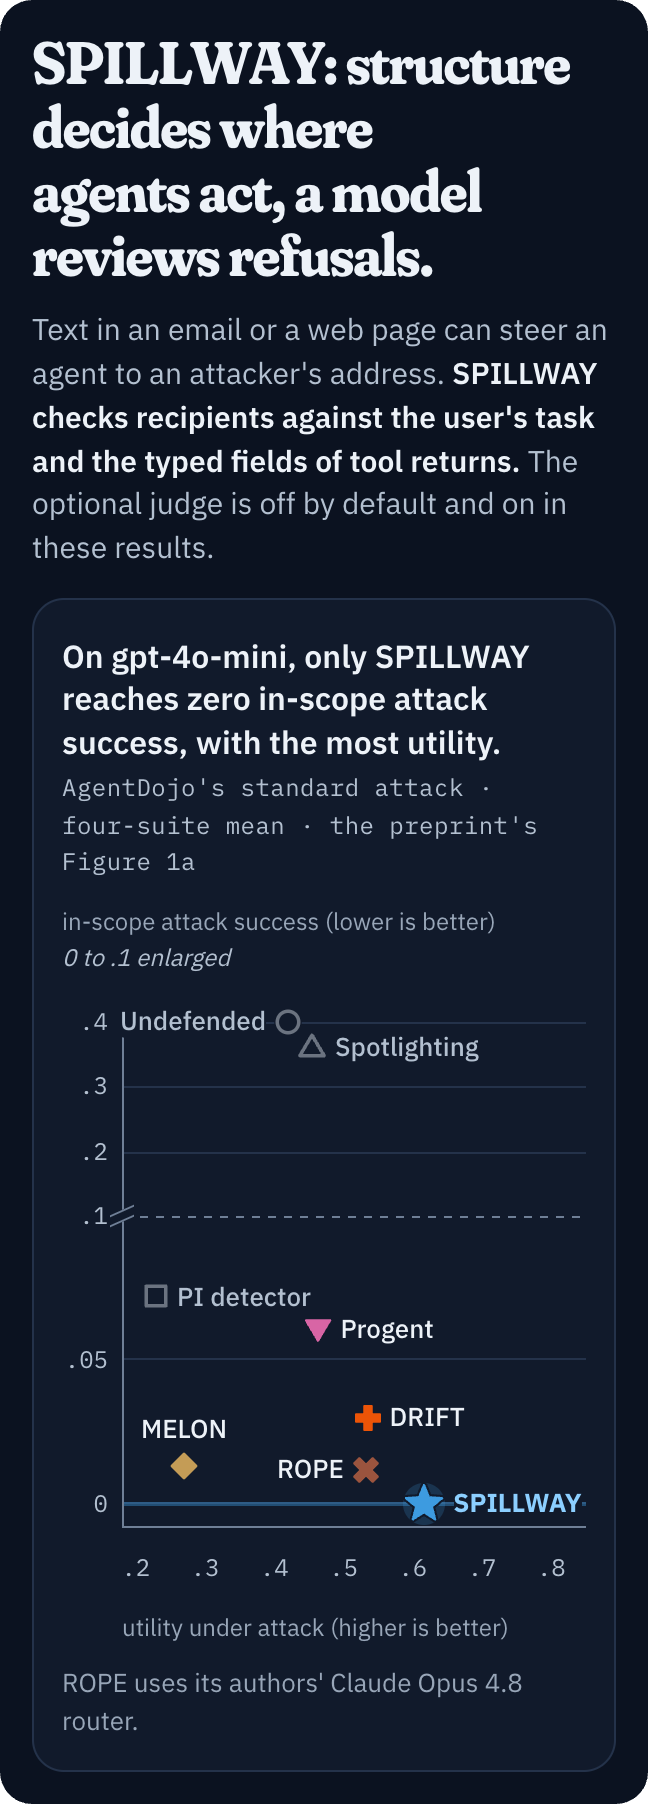
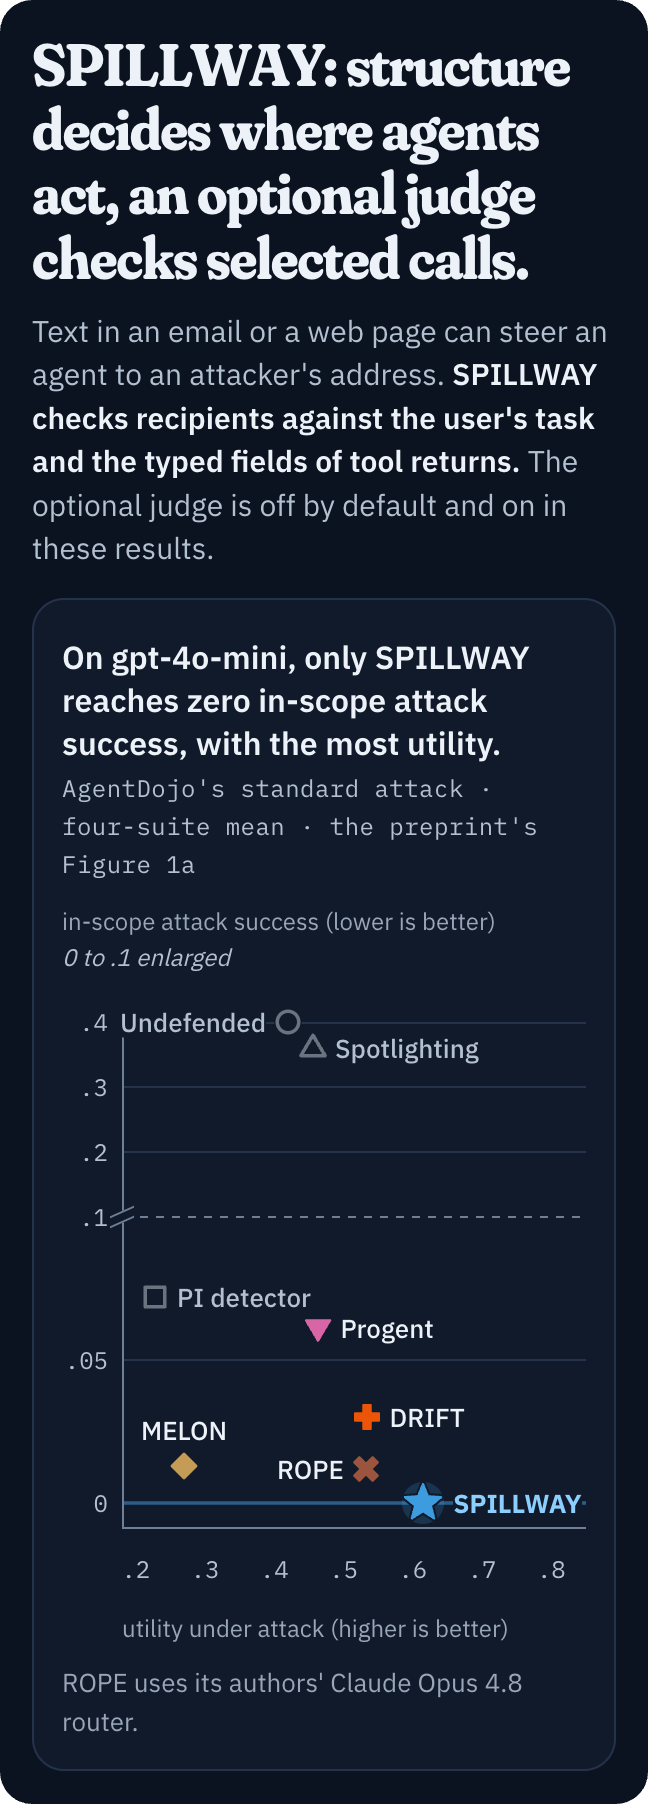
Align judge scope in public previews and README images

diff --git a/docs/index.html b/docs/index.html
@@ -11,7 +11,7 @@
 <link rel="canonical" href="https://saintmachines.github.io/spillway/">
 <meta property="og:type" content="website">
 <meta property="og:title" content="SPILLWAY checks recipients against the user's task and the typed fields of tool returns.">
-<meta property="og:description" content="Structure decides where agents act, a model reviews refusals. 0 of 12 AgentDojo cells leak in-scope, the most utility under attack of the seven defenses on that grid, 13 to 50 times fewer added model calls than MELON, Progent and DRIFT on benign qwen3:8b Workspace and Slack episodes.">
+<meta property="og:description" content="Structure decides where agents act, an optional judge checks selected calls. 0 of 12 AgentDojo cells leak in-scope, the most utility under attack of the seven defenses on that grid, 13 to 50 times fewer added model calls than MELON, Progent and DRIFT on benign qwen3:8b Workspace and Slack episodes.">
 <meta property="og:url" content="https://saintmachines.github.io/spillway/">
 <meta property="og:image" content="https://saintmachines.github.io/spillway/assets/og-card.png">
 <meta property="og:image:width" content="1200">
@@ -1086,7 +1086,7 @@ details.m.fold[open] > summary.ph::after { content: "\2212"; }
   <div class="wrap hero-grid">
     <div class="hero-head">
       <p class="eyebrow hero-eb"><span class="tl">Prompt&#8209;injection defense for tool&#8209;using agents</span><span class="ts">SAINT Machines · Prompt&#8209;injection defense</span></p>
-      <h1 id="h1">SPILLWAY: structure decides where agents act, a model reviews refusals.</h1>
+      <h1 id="h1">SPILLWAY: structure decides where agents act, an optional judge checks selected calls.</h1>
     </div>
     <div class="hero-copy">
       <p class="lede">Text in an email or a web page can steer an agent to an attacker's address. <strong>SPILLWAY checks recipients against the user's task and the typed fields of tool returns.</strong><a class="fn" href="#tm" aria-label="Footnote 1, the threat model">1</a> The optional judge is off by default and on in these results.</p>

diff --git a/docs/_build/template.html b/docs/_build/template.html
@@ -11,7 +11,7 @@
 <link rel="canonical" href="@@SITE@@">
 <meta property="og:type" content="website">
 <meta property="og:title" content="SPILLWAY checks recipients against the user's task and the typed fields of tool returns.">
-<meta property="og:description" content="Structure decides where agents act, a model reviews refusals. 0 of 12 AgentDojo cells leak in-scope, the most utility under attack of the seven defenses on that grid, 13 to 50 times fewer added model calls than MELON, Progent and DRIFT on benign qwen3:8b Workspace and Slack episodes.">
+<meta property="og:description" content="Structure decides where agents act, an optional judge checks selected calls. 0 of 12 AgentDojo cells leak in-scope, the most utility under attack of the seven defenses on that grid, 13 to 50 times fewer added model calls than MELON, Progent and DRIFT on benign qwen3:8b Workspace and Slack episodes.">
 <meta property="og:url" content="@@SITE@@">
 <meta property="og:image" content="@@SITE@@assets/og-card.png">
 <meta property="og:image:width" content="1200">
@@ -1086,7 +1086,7 @@ details.m.fold[open] > summary.ph::after { content: "\2212"; }
   <div class="wrap hero-grid">
     <div class="hero-head">
       <p class="eyebrow hero-eb"><span class="tl">Prompt&#8209;injection defense for tool&#8209;using agents</span><span class="ts">SAINT Machines · Prompt&#8209;injection defense</span></p>
-      <h1 id="h1">SPILLWAY: structure decides where agents act, a model reviews refusals.</h1>
+      <h1 id="h1">SPILLWAY: structure decides where agents act, an optional judge checks selected calls.</h1>
     </div>
     <div class="hero-copy">
       <p class="lede">Text in an email or a web page can steer an agent to an attacker's address. <strong>SPILLWAY checks recipients against the user's task and the typed fields of tool returns.</strong><a class="fn" href="#tm" aria-label="Footnote 1, the threat model">1</a> The optional judge is off by default and on in these results.</p>

diff --git a/README.md b/README.md
@@ -1,24 +1,5 @@
 <p align="center"><a href="https://saintmachines.ai"><picture><source media="(prefers-color-scheme: dark)" srcset="docs/assets/saintmachines_lockup_white.svg"><img src="docs/assets/saintmachines_lockup.svg" height="24" alt="SAINT Machines"></picture></a></p>
 
-## Guarded recovery in 0.1.3
-
-The SDK now enables `Policy(mv_guard=True, rolemark=True)`. G1 prevents two-view recovery of an identifier dictated by an imperative in tool text. G2 prevents that recovery for an IBAN payment when the user's task contains no payment request. The same preconditions cover object recovery; ROLEMARK adds forged plain-text role headers to ingress redaction. Identity-target recovery still defaults to `False`. Supplying `Policy(escalate_mv=True)` enables it with these preconditions.
-
-```python
-from spillway_guard import Guard, Policy
-
-guard = Guard(task)  # guarded recovery and ROLEMARK on; identity recovery off
-recovery_on = Guard(task, policy=Policy(escalate_mv=True))
-legacy = Guard(task, policy=Policy(mv_guard=False, rolemark=False))
-```
-
-`Guard` passes the exact tool-channel text, preserving case, clauses and newlines, to both recovery checks. Low-level `admit(..., tool_texts=[...])` callers must provide that exact text; normalized `tainted_text` is not a substitute. The guard checks text actually delivered to the agent after configured ingress sanitization, as the experiment did. It only skips recovery; the remaining deterministic ladder stays in effect.
-
-The AgentDojo runner defaults to the separate guarded reference. `--paper` selects the unchanged v1 paper reference/settings; `--paper --guarded` adds the new guard to the paper's recovery-ON settings. `--legacy-v1` disables both additions, and `--no-mv-guard` / `--no-rolemark` disable each independently. `SPW_MV_GUARD=0` and `SPW_ROLEMARK=0` are equivalent environment opt-outs for ordinary guarded runs. The original frozen reference and published benchmark records are unchanged.
-
-These finite predicates are not a general security proof: imperative-looking legitimate instructions can be refused; G1 does not recognize all declarative routing substitutions, and G2's payment vocabulary does not understand negation. Existing model results belong to their recorded experimental configurations; this release adds CPU caller/predicate/legacy tests and no new paid or model evaluation. The optional local judge can check selected content/object calls as well as refused-target recovery, so it is not globally limited to refused calls.
-
-
 <h1 align="center"><a href="https://saintmachines.github.io/spillway/"><picture>
     <source media="(max-width: 1011px)" srcset="docs/assets/readme_page/hero_phone.png">
     <img src="docs/assets/readme_page/hero.png" alt="SPILLWAY, a prompt-injection defense for tool-using agents: structure decides where agents act, an optional local judge checks selected calls. Text in an email or a web page can steer an agent to an attacker's address. SPILLWAY checks recipients against the user's task and the typed fields of tool returns. The optional judge is off by default and on in these results. 0 of 12 cells leak in-scope, others leak in 3 to 12. Utility under attack .484, next best .453, DRIFT. On benign qwen3:8b Workspace and Slack episodes, 13 to 50 times fewer added calls than MELON, Progent and DRIFT. At most 0.5 s added time, others add 1.6 to 10.5 s. A chart of the preprint's Figure 1a, AgentDojo's standard attack, mean of the four suites on gpt-4o-mini: only SPILLWAY reaches zero in-scope attack success, with the most utility. ROPE uses its authors' Claude Opus 4.8 router.">
@@ -68,11 +49,32 @@ A backbone is the agent's model. An in-scope leak sends an action to a target th
 <p align="center"><sub>AgentDojo v1.2.2, same backbone and scorer for every method. SPILLWAY's rows use the optional gemma4:31b judge, an optional local model that checks selected calls, off by default in the library. <a href="https://saintmachines.github.io/spillway/results.html">Values and conditions</a> · <a href="benchmarks/results">Per-cell records</a> · <a href="#detailed-results">Stronger attacks</a> · <a href="#faq">Without the judge</a>.</sub></p>
 
 <details>
+<summary>Guarded recovery in 0.1.3</summary>
+
+The SDK now enables `Policy(mv_guard=True, rolemark=True)`. G1 prevents two-view recovery of an identifier dictated by an imperative in tool text. G2 prevents that recovery for an IBAN payment when the user's task contains no payment request. The same preconditions cover object recovery; ROLEMARK adds forged plain-text role headers to ingress redaction. Identity-target recovery still defaults to `False`. Supplying `Policy(escalate_mv=True)` enables it with these preconditions.
+
+```python
+from spillway_guard import Guard, Policy
+
+guard = Guard(task)  # guarded recovery and ROLEMARK on; identity recovery off
+recovery_on = Guard(task, policy=Policy(escalate_mv=True))
+legacy = Guard(task, policy=Policy(mv_guard=False, rolemark=False))
+```
+
+`Guard` passes the exact tool-channel text, preserving case, clauses and newlines, to both recovery checks. Low-level `admit(..., tool_texts=[...])` callers must provide that exact text; normalized `tainted_text` is not a substitute. The guard checks text actually delivered to the agent after configured ingress sanitization, as the experiment did. It only skips recovery; the remaining deterministic ladder stays in effect.
+
+The AgentDojo runner defaults to the separate guarded reference. `--paper` selects the unchanged v1 paper reference/settings; `--paper --guarded` adds the new guard to the paper's recovery-ON settings. `--legacy-v1` disables both additions, and `--no-mv-guard` / `--no-rolemark` disable each independently. `SPW_MV_GUARD=0` and `SPW_ROLEMARK=0` are equivalent environment opt-outs for ordinary guarded runs. The original frozen reference and published benchmark records are unchanged.
+
+These finite predicates are not a general security proof: imperative-looking legitimate instructions can be refused; G1 does not recognize all declarative routing substitutions, and G2's payment vocabulary does not understand negation. Existing model results belong to their recorded experimental configurations; this release adds CPU caller/predicate/legacy tests and no new paid or model evaluation. The optional local judge can check selected content/object calls as well as refused-target recovery, so it is not globally limited to refused calls.
+
+</details>
+
+<details>
 <summary>What is different</summary>
 
 | | SPILLWAY | MELON | Progent | DRIFT |
 |---|---|---|---|---|
-| The decision that lets an action through is made by | a set lookup over typed tool returns and the user's task, then fixed delegation rules and, if configured, a local judge on refusals | an LLM re-run of the trajectory with the user task masked | an LLM-written privilege policy enforced by a checker | an LLM validating each call against a plan |
+| The decision that lets an action through is made by | a set lookup over typed tool returns and the user's task, then fixed delegation rules and, if configured, a local judge on selected calls | an LLM re-run of the trajectory with the user task masked | an LLM-written privilege policy enforced by a checker | an LLM validating each call against a plan |
 | Added model calls per benign episode (qwen3:8b, Workspace / Slack) | 0.19 / 0.39 (judge included) | 3.25 / 5.29 backbone calls | 5.94 / 8.67 backbone calls | 9.59 / 9.91 backbone calls |
 | AgentDojo cells with an in-scope leak (of 12) | 0 | 10 | 11 | 7 |
 
